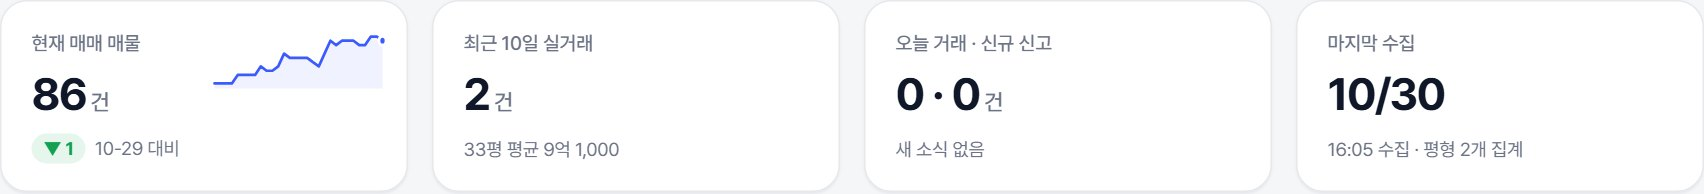
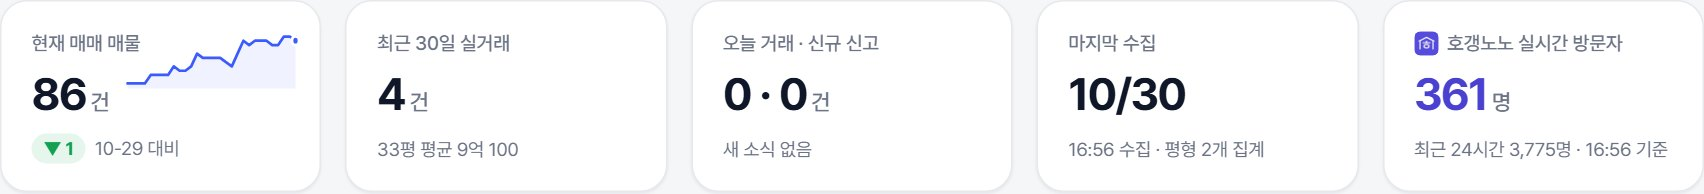
호갱노노·네이버 부동산 바로가기 + 호갱노노 실시간 방문자 카드 + 통계 IP
- 상단에 호갱노노(33평으로 열림)·네이버 부동산 앱 아이콘 버튼(이미지 여백 잘라 바탕색과 맞춤)
- hogangnono.js: 수집 때 단지 페이지를 열어 실시간 방문자 받아 옴 → 대시보드 5번째 카드
- 숫자 칸 '최근 10일 실거래' → '최근 30일 실거래'
- 접속 통계 최근 방문 기록에 IP 표시

diff --git a/app.js b/app.js
@@ -519,6 +519,14 @@ function render(state) {
   renderRealChart(state.realChart);
   renderAnalysis(state.analysis);
   renderKpis(state);
+  // 호갱노노 바로가기(config.json 의 hogangnonoUrl)
+  const hg = $("hgnn-link");
+  hg.hidden = !state.hogangnonoUrl;
+  if (state.hogangnonoUrl) { hg.href = state.hogangnonoUrl; hg.title = `${state.complexName || "단지"} 호갱노노에서 보기(새 창)`; }
+  // 네이버 부동산 바로가기(단지 번호로)
+  const nl = $("nland-link");
+  nl.hidden = !state.complexNo;
+  if (state.complexNo) { nl.href = `https://new.land.naver.com/complexes/${encodeURIComponent(state.complexNo)}`; nl.title = `${state.complexName || "단지"} 네이버 부동산에서 보기(새 창)`; }
 }
 
 // 최근 n일 전체 매물 수 미니 추이선(KPI 카드용) — 축·라벨 없이 흐름만 보여준다
@@ -543,6 +551,16 @@ function labelCells(table) {
     [...tr.children].forEach((td, i) => { if (heads[i]) td.dataset.label = heads[i]; }));
 }
 
+// 호갱노노 실시간 방문자 카드 — 누르면 호갱노노 단지 페이지(새 창)
+function hogangnonoTile(h) {
+  if (!h || typeof h.realtime !== "number") return "";
+  const t = new Date(h.fetchedAt).toLocaleTimeString("ko-KR", { hour: "2-digit", minute: "2-digit", hour12: false });
+  return `<a class="kpi kpi-hg" href="${esc(h.url)}" target="_blank" rel="noopener" title="호갱노노에서 보기(새 창)">` +
+    `<span class="kpi-label"><img src="hogangnono.png" alt="" width="16" height="16" />호갱노노 실시간 방문자</span>` +
+    `<b class="kpi-value">${h.realtime.toLocaleString()}<small>명</small></b>` +
+    `<span class="kpi-sub">최근 24시간 ${(h.recent24h || 0).toLocaleString()}명 · ${esc(t)} 기준</span></a>`;
+}
+
 // ---------- 대시보드 요약 지표 ----------
 function renderKpis(state) {
   const rows = state.rows || [];
@@ -552,10 +570,14 @@ function renderKpis(state) {
   const deals = (state.realDeals && state.realDeals.list) || [];
   const nToday = deals.filter((x) => x.isToday).length;
   const nNew = deals.filter((x) => x.isNew).length;
-  const realCnt = rows.reduce((a, r) => a + (r.realCount || 0), 0);
-  const realDays = (rows.find((r) => r.realDays) || {}).realDays || 10;
-  // 실거래가 가장 많은 평형의 평균가를 대표값으로 보여준다
-  const top = rows.filter((r) => r.realPrice).sort((a, b) => b.realCount - a.realCount)[0];
+  // 최근 30일 실거래(해제 건 제외) — 거래가 가장 많은 평형의 평균가를 대표값으로 보여준다
+  const KPI_REAL_DAYS = 30;
+  const from = new Date(Date.parse(state.realDeals && state.realDeals.today || Date.now()) - KPI_REAL_DAYS * 86400000).toISOString().slice(0, 10);
+  const recent = deals.filter((x) => !x.canceled && x.date >= from);
+  const byPy = {};
+  for (const x of recent) (byPy[x.pyeong] = byPy[x.pyeong] || []).push(x.price);
+  const topPy = Object.keys(byPy).sort((a, b) => byPy[b].length - byPy[a].length)[0];
+  const topAvg = topPy ? byPy[topPy].reduce((a, p) => a + p, 0) / byPy[topPy].length : null;
   // 마지막 수집 시각(HH:MM) — 서버가 수집할 때마다 기록한다
   const fetchedTime = state.lastFetchedAt
     ? new Date(state.lastFetchedAt).toLocaleTimeString("ko-KR", { hour: "2-digit", minute: "2-digit", hour12: false })
@@ -566,12 +588,13 @@ function renderKpis(state) {
     tile("현재 매매 매물", `${today}<small>건</small>`,
       state.prevDate ? `<span class="delta pill ${d.cls}">${d.txt}</span> ${esc(state.prevDate.slice(5))} 대비` : "내일부터 증감 표시", "dashboard",
       sparkline(state.chart, 30)),
-    tile(`최근 ${realDays}일 실거래`, `${realCnt}<small>건</small>`,
-      top ? `${top.pyeong}평 평균 ${esc(top.realPrice)}` : "거래 없음", "deals"),
+    tile(`최근 ${KPI_REAL_DAYS}일 실거래`, `${recent.length}<small>건</small>`,
+      topPy ? `${topPy}평 평균 ${esc(fmtMan(topAvg))}` : "거래 없음", "deals"),
     tile("오늘 거래 · 신규 신고", `${nToday} · ${nNew}<small>건</small>`,
       nToday || nNew ? "실거래 목록에서 확인" : "새 소식 없음", "deals"),
     tile("마지막 수집", esc(state.todayDate ? state.todayDate.slice(5).replace("-", "/") : "–"),
       `${fetchedTime ? `${fetchedTime} 수집 · ` : ""}평형 ${rows.length}개 집계`, "dashboard"),
+    hogangnonoTile(state.hogangnono),
   ].join("");
   $("side-meta").textContent = state.todayDate ? `마지막 수집 ${state.todayDate}${fetchedTime ? " " + fetchedTime : ""}` : "";
 }
@@ -1086,8 +1109,8 @@ function renderStats(s) {
   $("st-recent").innerHTML = s.recent.length
     ? s.recent.map((r) => `<tr><td>${esc(new Date(r.t).toLocaleString("ko-KR", { month: "numeric", day: "numeric", hour: "2-digit", minute: "2-digit" }))}</td>` +
         `<td>#${esc(r.vid)}${r.isNew ? ` <span class="tag new">첫 방문</span>` : ""}</td>` +
-        `<td>${esc(VIEW_LABELS[r.view] || r.view)}</td><td>${r.mobile ? "휴대폰" : "PC"}</td><td>${esc(r.ref || "–")}</td></tr>`).join("")
-    : `<tr><td colspan="5" class="empty">아직 방문 기록이 없습니다.</td></tr>`;
+        `<td class="st-ip">${esc(r.ip || "–")}</td><td>${esc(VIEW_LABELS[r.view] || r.view)}</td><td>${r.mobile ? "휴대폰" : "PC"}</td><td>${esc(r.ref || "–")}</td></tr>`).join("")
+    : `<tr><td colspan="6" class="empty">아직 방문 기록이 없습니다.</td></tr>`;
   $("st-updated").textContent = `${new Date().toLocaleTimeString("ko-KR", { hour: "2-digit", minute: "2-digit" })} 기준 · 최근 50건`;
 }
 

diff --git a/server.js b/server.js
@@ -10,6 +10,7 @@ const { fetchSaleAndReal, aggregateByPyeong } = require("./naver");
 const { fetchNews, TOPICS: NEWS_TOPICS } = require("./news");
 const { updateAnalysis, loadAnalysis } = require("./analysis");
 const stats = require("./stats");
+const { updateHogangnono, loadHogangnono } = require("./hogangnono");
 
 const ROOT = __dirname;
 const HISTORY_FILE = path.join(ROOT, "history.json");
@@ -220,6 +221,8 @@ function buildState() {
     realDeals,
     todayDate: todayKey,
     lastFetchedAt: history.lastFetchedAt || null,
+    hogangnonoUrl: loadConfig().hogangnonoUrl || "", // 상단 '호갱노노' 바로가기
+    hogangnono: loadHogangnono(), // 호갱노노 실시간 방문자(수집 때마다 갱신)
     prevDate: prevKey,
     rows,
     chart: {
@@ -564,7 +567,7 @@ async function publishPages() {
     let collectUrl = loadConfig().publicUrl || "";
     if (!collectUrl) try { collectUrl = fs.readFileSync(path.join(ROOT, "tunnel-url.txt"), "utf8").trim(); } catch {}
     writeJson(path.join(DOCS, "data.json"), { generatedAt: new Date().toISOString(), collectUrl, state, changes, news, newsDongtan });
-    for (const f of ["app.js", "style.css", "logo-forenus.png"]) fs.copyFileSync(path.join(ROOT, f), path.join(DOCS, f));
+    for (const f of ["app.js", "style.css", "logo-forenus.png", "hogangnono.png", "naverland.png"]) fs.copyFileSync(path.join(ROOT, f), path.join(DOCS, f));
     fs.cpSync(path.join(ROOT, "guide"), path.join(DOCS, "guide"), { recursive: true }); // 사용법 참고 캡처
     const html = fs.readFileSync(path.join(ROOT, "index.html"), "utf8")
       .replace(`<script src="app.js"></script>`, `<script>window.STATIC_MODE = true;</script>
@@ -582,6 +585,13 @@ async function publishPages() {
   try { return await publishing; } finally { publishing = null; }
 }
 async function publishSafe(tag) {
+  // 호갱노노 실시간 방문자 — 실패해도 게시는 계속한다
+  try {
+    const h = await updateHogangnono(loadConfig().hogangnonoUrl);
+    if (h) console.log(`  [호갱노노] 지금 ${h.realtime}명 · 24시간 ${h.recent24h}명`);
+  } catch (e) {
+    console.log("  [호갱노노] 실패:", e.message);
+  }
   // 게시 전에 추이 해설을 새로 쓴다(수집할 때마다 AI 가 다시 분석)
   try {
     const a = await updateAnalysis(buildState(), (loadHistory().realDealsAll || {}).list);
@@ -715,7 +725,7 @@ const server = http.createServer(async (req, res) => {
   // 접속 기록 — 공개 페이지가 열릴 때·메뉴를 옮길 때 보낸다(응답 본문 없음)
   if (url === "/api/hit" && req.method === "POST") {
     const body = await readJsonLimited(req, 4096);
-    if (body) stats.record(body);
+    if (body) stats.record(body, req.headers["cf-connecting-ip"] || String(req.headers["x-forwarded-for"] || "").split(",")[0].trim() || req.socket.remoteAddress);
     res.writeHead(204);
     return res.end();
   }

diff --git a/index.html b/index.html
@@ -39,6 +39,8 @@
         </div>
         <div class="head-chips">
           <span class="chip live"><i></i>30분마다 자동 수집</span>
+          <a class="app-btn hgnn" id="hgnn-link" target="_blank" rel="noopener" aria-label="호갱노노에서 보기(새 창)" hidden><img src="hogangnono.png" alt="호갱노노" width="104" height="104" /></a>
+          <a class="app-btn nland" id="nland-link" target="_blank" rel="noopener" aria-label="네이버 부동산에서 보기(새 창)" hidden><img src="naverland.png" alt="네이버 부동산" width="167" height="164" /></a>
           <span class="badge" id="view-name">대시보드</span>
         </div>
       </header>
@@ -246,7 +248,7 @@
             <figure class="guide-shot"><a href="guide/kpis.jpg" target="_blank" rel="noopener"><img src="guide/kpis.jpg" alt="요약 숫자 칸 화면" loading="lazy" /></a></figure>
             <dl>
               <dt>현재 매매 매물</dt><dd>오늘 등록된 전체 매매 매물 수입니다. 아래 알약 모양이 전일 대비 증감, 오른쪽 작은 선은 최근 30일 흐름입니다.</dd>
-              <dt>최근 10일 실거래</dt><dd>최근 10일 동안 신고된 실거래 건수와, 거래가 가장 많은 평형의 평균가입니다.</dd>
+              <dt>최근 30일 실거래</dt><dd>최근 30일 동안의 실거래 건수(해제 건 제외)와, 거래가 가장 많은 평형의 평균가입니다.</dd>
               <dt>오늘 거래 · 신규 신고</dt><dd>오늘 계약된 거래와 직전 수집 이후 새로 공개된 거래 수입니다. 누르면 실거래 목록으로 이동합니다.</dd>
             </dl>
           </div>
@@ -375,11 +377,11 @@
             </div>
             <div class="table-wrap">
               <table class="st-recent">
-                <thead><tr><th>시각</th><th>방문자</th><th>본 메뉴</th><th>기기</th><th>유입 경로</th></tr></thead>
+                <thead><tr><th>시각</th><th>방문자</th><th>IP</th><th>본 메뉴</th><th>기기</th><th>유입 경로</th></tr></thead>
                 <tbody id="st-recent"></tbody>
               </table>
             </div>
-            <p class="hint">공개 페이지 방문만 셉니다(PC에서 연 화면 제외). IP 등 개인정보는 저장하지 않고, 같은 브라우저는 같은 방문자로 셉니다. PC 서버가 꺼져 있던 동안의 방문은 기록되지 않습니다.</p>
+            <p class="hint">공개 페이지 방문만 셉니다(PC에서 연 화면 제외). 같은 브라우저는 같은 방문자로 세고, IP는 최근 방문 기록 50건에만 남깁니다. PC 서버가 꺼져 있던 동안의 방문은 기록되지 않습니다.</p>
           </section>
         </div>
         <section class="card st-locked" id="st-locked">

diff --git a/hogangnono.js b/hogangnono.js
@@ -1,0 +1,43 @@
+// 호갱노노 실시간 방문자 — 단지 페이지가 스스로 부르는 /api/realtime/visitor 응답을 받아 온다.
+// 이 API 는 페이지 스크립트가 만든 서명 헤더가 있어야 열리므로, 화면 없는 브라우저로 단지 페이지를 잠깐 연다.
+// 결과는 hogangnono.json 에 보관한다(수집할 때마다 갱신).
+const fs = require("fs");
+const path = require("path");
+const { chromium } = require("playwright");
+
+const FILE = path.join(__dirname, "hogangnono.json");
+
+function loadHogangnono() {
+  try { return JSON.parse(fs.readFileSync(FILE, "utf8")); } catch { return null; }
+}
+
+// url: https://hogangnono.com/apt/{hash}[/거래유형/평형번호]
+async function updateHogangnono(url) {
+  const hash = (String(url || "").match(/\/apt\/([A-Za-z0-9]+)/) || [])[1];
+  if (!hash) return null;
+  const browser = await chromium.launch();
+  try {
+    const page = await browser.newPage({ locale: "ko-KR", viewport: { width: 1280, height: 900 } });
+    // 지도 타일·이미지 등은 필요 없으니 받지 않는다(빨리 끝나게)
+    await page.route("**/*", (r) => (["image", "media", "font"].includes(r.request().resourceType()) ? r.abort() : r.continue()));
+    const got = page.waitForResponse((r) => r.url().includes(`/api/realtime/visitor/apt/${hash}`) && r.status() === 200, { timeout: 30000 });
+    await page.goto(`https://hogangnono.com/apt/${hash}`, { waitUntil: "domcontentloaded", timeout: 30000 });
+    const j = await (await got).json();
+    const d = (j && j.data) || {};
+    if (typeof d.realtime !== "number") throw new Error("실시간 방문자 응답 형식이 바뀌었습니다.");
+    const saved = {
+      url: String(url), // 설정한 주소 그대로(평형까지 고른 주소 — 예: /apt/{hash}/0/1 은 33평)
+      realtime: d.realtime,       // 지금 보는 중
+      recent24h: d.recent24h,     // 최근 24시간 방문자
+      frequent: d.frequent,       // 자주 방문하는 사람
+      new: d.new,                 // 새로 방문한 사람
+      fetchedAt: new Date().toISOString(),
+    };
+    fs.writeFileSync(FILE, JSON.stringify(saved, null, 2), "utf8");
+    return saved;
+  } finally {
+    await browser.close();
+  }
+}
+
+module.exports = { updateHogangnono, loadHogangnono };

diff --git a/style.css b/style.css
@@ -555,3 +555,27 @@ a.logo { text-decoration: none; padding: 0 2px; }
 }
 /* 휴대폰은 위 막대에 로고가 이미 있으므로 제목 자리 로고는 감춘다 */
 @media (max-width: 760px) { .page-head h1 .brand-logo { display: none; } .page-head .sub { margin-top: 0; } }
+
+/* 상단 바로가기 — 호갱노노·네이버 부동산 앱 아이콘 버튼(바탕을 아이콘 색으로 채워 테두리가 비지 않게) */
+.app-btn { display: block; width: 34px; height: 34px; border-radius: 10px; overflow: hidden; transition: transform .15s var(--ease), box-shadow .15s var(--ease); }
+.app-btn img { display: block; width: 100%; height: 100%; object-fit: cover; }
+.app-btn.hgnn { background: #554cde; box-shadow: 0 2px 6px rgba(85, 76, 222, .3); }
+.app-btn.nland { background: #09ca4d; box-shadow: 0 2px 6px rgba(9, 202, 77, .3); }
+.app-btn:hover { transform: translateY(-1px); box-shadow: 0 6px 14px rgba(16, 24, 40, .22); }
+.app-btn:focus-visible { outline: 2px solid var(--primary); outline-offset: 2px; }
+.app-btn[hidden] { display: none; }
+@media (max-width: 760px) {
+  /* 휴대폰은 바로가기만 남긴다 */
+  .head-chips { display: flex; }
+  .head-chips .chip.live, .head-chips .badge { display: none; }
+}
+
+/* 대시보드 숫자 칸 5개(호갱노노 실시간 방문자 포함) */
+.kpis { grid-template-columns: repeat(5, minmax(0, 1fr)); }
+.kpis:has(> .kpi:nth-child(4):last-child) { grid-template-columns: repeat(4, minmax(0, 1fr)); }
+@media (max-width: 1280px) { .kpis, .kpis:has(> .kpi:nth-child(4):last-child) { grid-template-columns: repeat(3, minmax(0, 1fr)); } }
+@media (max-width: 760px) { .kpis, .kpis:has(> .kpi:nth-child(4):last-child) { grid-template-columns: repeat(2, minmax(0, 1fr)); } }
+.kpi-hg .kpi-label { display: inline-flex; align-items: center; gap: 6px; }
+.kpi-hg .kpi-label img { border-radius: 4px; background: #554cde; }
+.kpi-hg .kpi-value { color: #4a41d0; }
+.st-ip { font-variant-numeric: tabular-nums; white-space: nowrap; }

diff --git a/stats.js b/stats.js
@@ -1,5 +1,5 @@
 // 접속 통계 — 공개 페이지가 열릴 때(메뉴 이동 포함) 보내 오는 기록을 날짜별로 모은다.
-// IP 등 개인정보는 저장하지 않는다. 방문자 구분은 브라우저가 만든 무작위 번호(vid)로만 한다.
+// 방문자 구분은 브라우저가 만든 무작위 번호(vid)로 한다. IP 는 관리자 확인용으로 '최근 방문 기록'(최근 50건)에만 남긴다.
 const fs = require("fs");
 const path = require("path");
 
@@ -45,7 +45,7 @@ function refName(host) {
   return h.slice(0, 40);
 }
 
-function record(body) {
+function record(body, ip = "") {
   const d = load();
   const vid = String(body.vid || "");
   if (!/^[a-z0-9]{8,32}$/.test(vid)) return false;
@@ -66,7 +66,7 @@ function record(body) {
     t.refs[r] = (t.refs[r] || 0) + 1;
   }
   if (newVisitor) d.seen[vid] = day;
-  d.recent.unshift({ t: now.toISOString(), view, mobile: !!body.mobile, ref: firstToday ? refName(body.ref) : "", isNew: newVisitor, vid: vid.slice(0, 6) });
+  d.recent.unshift({ t: now.toISOString(), view, mobile: !!body.mobile, ref: firstToday ? refName(body.ref) : "", isNew: newVisitor, vid: vid.slice(0, 6), ip: String(ip).replace(/^::ffff:/, "").slice(0, 45) });
   d.recent.length = Math.min(d.recent.length, RECENT_MAX);
   // 오래된 날짜 정리
   const cut = ymd(new Date(now.getTime() - KEEP_DAYS * 86400000));
